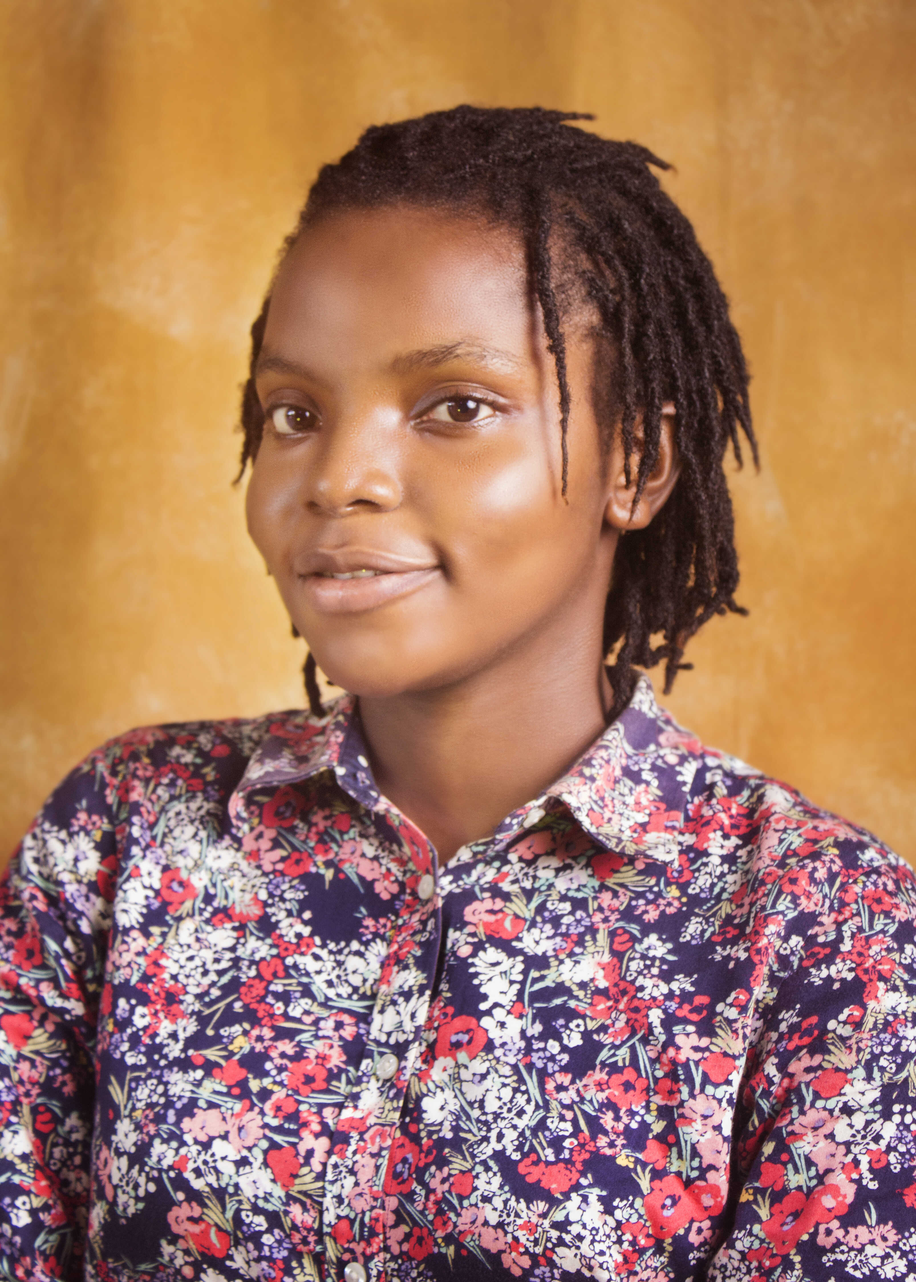
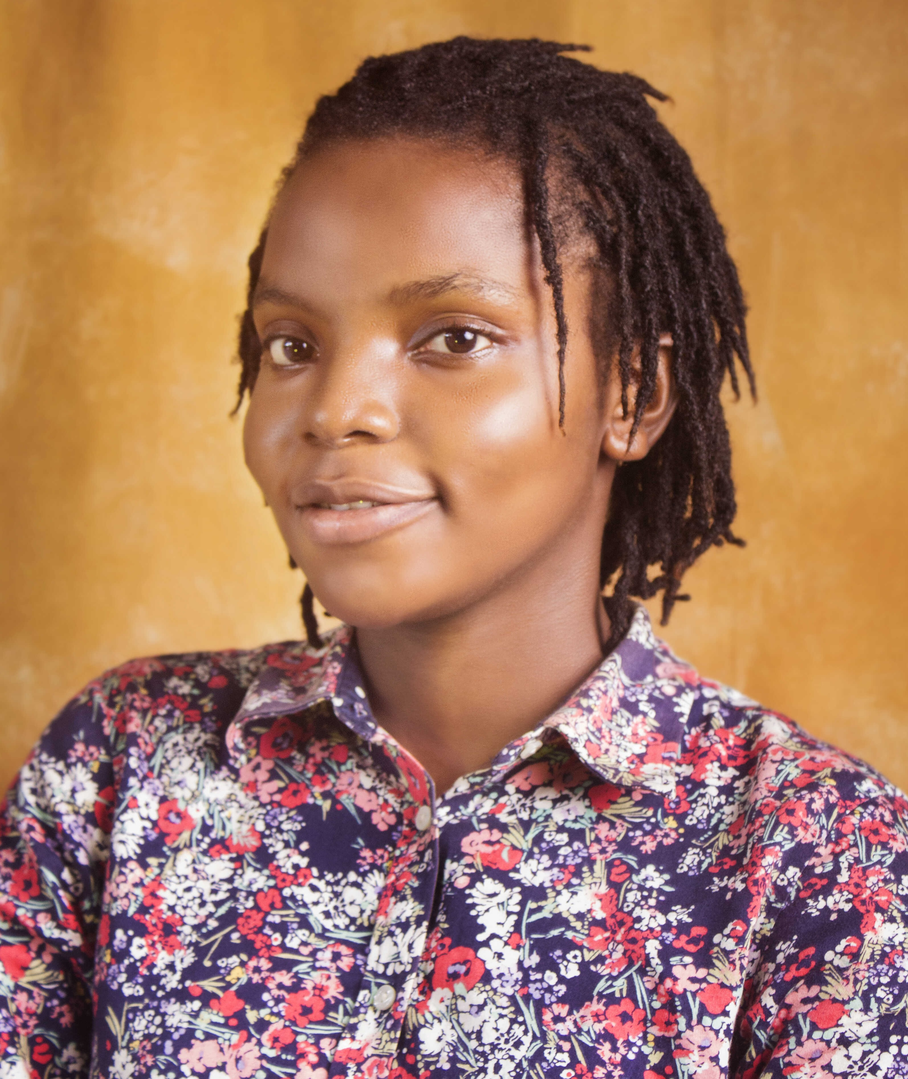
feat: add profile image in hero section

diff --git a/src/app/sections/Hero.jsx b/src/app/sections/Hero.jsx
@@ -8,8 +8,8 @@ const Hero = () => {
 			<div className="min-h-[85svh] relative mx-auto">
 				<div className="w-11/12 mx-auto">
 					<Header />
-					<div className="grid gap-6 pt-10 items-center md:grid-cols-2">
-						<div className="grid gap-4 max-md:text-center">
+					<div className="grid gap-6 md:w-11/12 mx-auto lg:w-full pt-10 items-center lg:grid-cols-2">
+						<div className="grid gap-4 max-lg:text-center">
 							<h1>
 								<span>Hi, my name is</span> <br />
 								<span className="text-primary font-bold text-6xl">
@@ -22,9 +22,12 @@ const Hero = () => {
 								interfaces, focused on user experience.
 							</p>
 						</div>
-						{/* <div className="">
-							<Image width={320} src={profile} alt='My profile picture' />
-						</div> */}
+						<div
+							style={{
+								background: `url(${profile.src}) no-repeat top center/cover`,
+							}}
+							className="max-sm:min-h-[550px] sm:min-h-[640px] md:min-h-[800px] lg:min-h-[600px] rounded-lg"
+						></div>
 					</div>
 					{/* Skill Icons */}
 					<div className=""></div>
